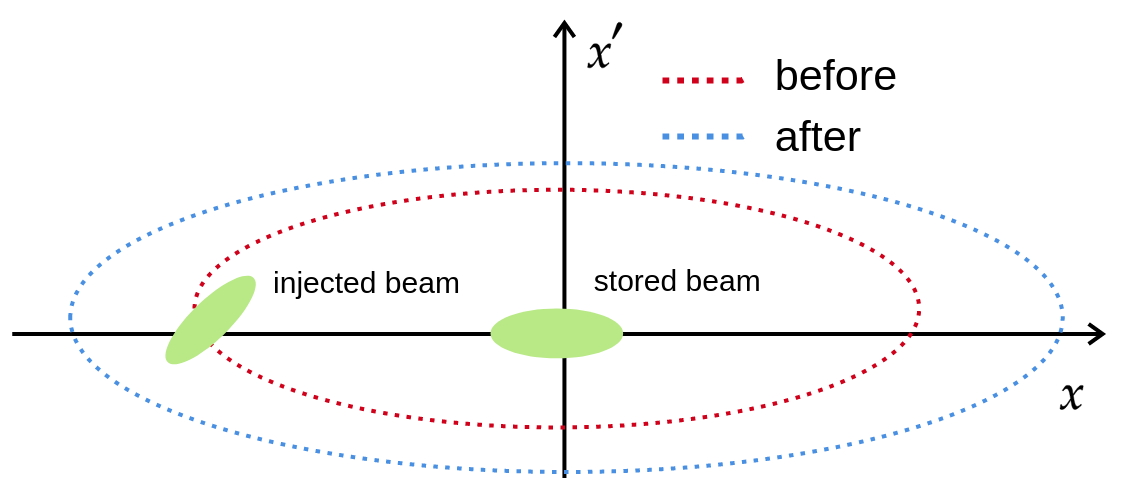
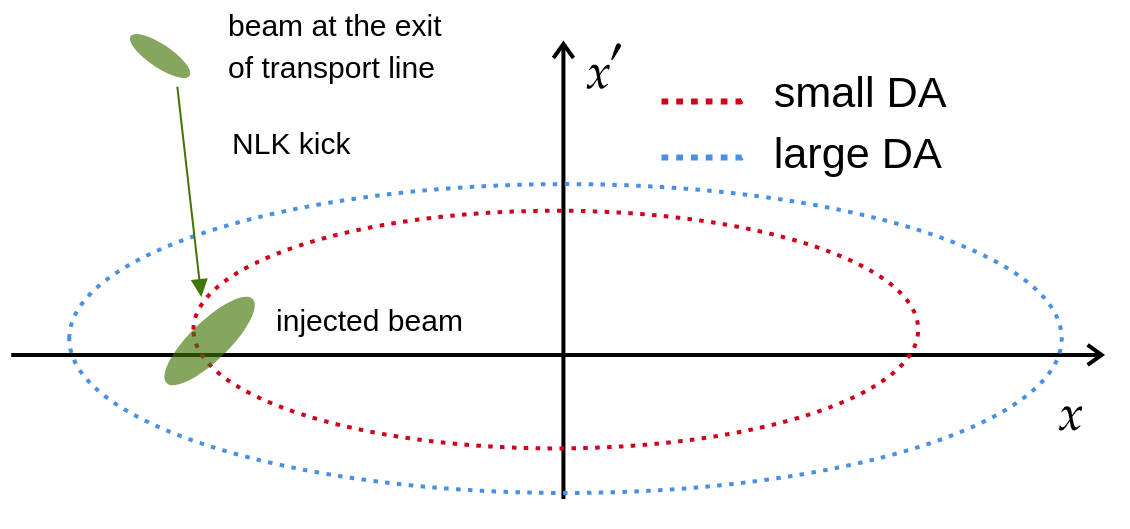
CH04.ENH: rewrite jacobian space, add illustration, change figs

diff --git a/Chapters/ch04.tex b/Chapters/ch04.tex
@@ -11,7 +11,7 @@ The central dipole, the BC, is a permanent superbend magnet with a peak field of
 
 In the high-beta straight sections, the quadrupole doublet (QFA, QDA) is employed for optics matching. B-type sections utilize the (QFB, QDB1, QDB2) quadrupole triplet for matching while the (QFP, QDP1, QDP2) triplet is used in the P-type sections. The arc sections contain the Q1, Q2, Q3, and Q4 quadrupole families, totalling 12 families of quadrupoles and 270 magnets.
 
-The lattice also features 21 families of sextupoles magnets, used for chromaticity correction and nonlinear dynamics optimization. They sum up to 280 magnets. Some sextupoles families are located where the dispersion function vanishes and are called \textit{achromatic}, or harmonic, while other families, located where there is non-zero dispersion, are called \textit{chromatic} families. 
+The lattice also features 21 families of sextupoles magnets, used for chromaticity correction and nonlinear dynamics optimization. They sum up to 280 magnets. Some sextupoles families are located where the dispersion function vanishes and are called \textit{achromatic}, or harmonic, while other families, located where there is non-zero dispersion, are called \textit{chromatic} families.
 
 Table~\ref{tab:sext_fams} lists the sextupoles families and their types in the storage ring. The 21 families are, in principle, the available search space for nonlinear dynamics optimization. The subsection~\ref{subsec:knobs}, on the choice of optimization knobs, at the end of this chapter, shows how the search space can be reduced down to 13 dimensions once the constant chromaticity requirement and/or other additional constraints are imposed.
 
@@ -93,10 +93,10 @@ where $\vb{J}_{\nu}^{+} = (\vb{J}_{\nu}^{\intercal}\vb{J}_{\nu})^{-1}\vb{J}_{\nu
 \subsection{Chromaticity measurements \& control}
 Chromaticity characterizes the energy-dependent tune-shift. To measure it, we need to calculate the numerical derivative
 \begin{equation}
-    \xi_u = \pdv{\nu_u}{\delta}\approx \frac{\Delta \nu_u}{\delta}, \quad u=x, y, 
+    \xi_u = \pdv{\nu_u}{\delta}\approx \frac{\Delta \nu_u}{\delta}, \quad u=x, y,
     \label{eq:chrom_numerical}
 \end{equation}
-that is, measure the tune-shift $\Delta \nu_u$ induced by the energy-shift $\delta$. 
+that is, measure the tune-shift $\Delta \nu_u$ induced by the energy-shift $\delta$.
 
 A direct manner to induce a particular energy-shift is to change the RF cavities frequency. A relation can be established between energy deviations $\delta$ and relative RF frequency changes with the aid of a quantity $\alpha$, known as \textit{momentum compaction factor} \cite{lee_accelerator_2004,sands_physics_1969}:
 \begin{equation}
@@ -144,9 +144,13 @@ There is no analytical formula relating the storage ring linear or nonlinear opt
     \label{fig:injection_efficiency}
 \end{figure}
 
-Therefore, for online optimization, one must choose a practical, relatively fast to measure objective function to act as a probe to the DA: a figure of merit related to the DA to represent it and to be used to evaluate the quality of the changes performed during the online tuning process. In our experiments, we studied using two practical objectives as the probes for DA: the \textbf{injection efficiency} and the \textbf{beam's resilience to dipolar perturbations}. The former is quite self-explanatory: the larger the DA, larger the space for the beam to be captured into the storage ring during the injection pulse, and thus the larger the injection efficiency. Figure~\ref{fig:injection_efficiency}  illustrates how a smller aperture, shown in red, influences the efficiency of injection. The incoming beam enters the storage ring with a hortizontal offset of $x\approx -8~ \unit{mm}$. If the DA is reduced below this value, it can crop part of the injected beam or even the entire beam altogether. The injected beam is lost due to the nonlinear dynamics instabilities in the first turns. If the DA is increased, the larger the beam fraction which is successfully captured and survives in the storage ring in the long term.
+For online optimization one must choose a practical, relatively fast to measure objective function to act as a probe of the DA: a figure of merit related to the DA to represent it and to be used to evaluate the quality of the changes performed during the online tuning process. In our experiments, we studied using two practical objectives as the probes for DA: the \textbf{injection efficiency} and the \textbf{beam's resilience to dipolar perturbations}. The former is quite self-explanatory: the larger the DA, larger the space for the beam to be captured into the storage ring during the injection pulse, and thus the larger the injection efficiency.
 
-As for the beam kick resilience, this figure of merit is related to the DA by the following reasoning: the larger the horizontal dipolar kicks the beam can survive, the larger the orbit distortions towards the positive or negative horizontal direction (depending on the kick direction). So the larger the amplitudes the beam explores as it oscillates. If the beam survives to larger kicks, it means the ring can accommodate larger orbit distortions because of an increased DA. Figure~\ref{fig:action_jump} illustrates the phase space orbits for a beam when it is kicked. In the left sketch, small amplitude TbT motion ellipse is shown. When kikced, the beam gains momentum (angle) and is rigidly translated higher along the $x^{\prime}$ direction. In the linear approximation the beam goes from one ellipse, with action $J$ to another ellipse, with action $\tilde{J}>J$. If the kick is stronger (larger than $500~\unit{\mu rad}$), the action jump takes the beam to a nonlinear regime, as shown in the right sketch, where the beam traces out distorted ellipses. After the kick, the maximum amplitude reached in the negative horizontal direction is increased thus the larger the fraction of the beam that can survive the kick, the larger the DA.
+Figure~\ref{fig:injection_efficiency}  illustrates how a smller aperture, shown in red, influences the efficiency of injection. After leaving the booster accelerator at $3~\unit{GeV}$, the beam is transported into the storage ring injection straight section. It reaches the injection area with phase space coordinates of approximately $(x, x^\prime)\approx(-8~\unit{mm}, 3~\unit{m rad})$. The beam then suffers the deflection of a nonlinear pulsed magnet, the nonlinear kicker (NLK) and is captured into the storage ring with phase space coordinates $(-8~ \unit{mm}, 0)$ \cite{liu_injection_2016}. If the DA border along the negative horizontal direction is reduced below $-8~\unit{mm}$, the dynamics may not accomodate the long term time evolution of the beam fraction exceeding this treshold. This fraction is lost due to the nonlinear dynamics instabilities in the first turns. On the other hand, if the DA is increased, the larger the beam fraction which is successfully captured and survives in the storage ring in the long term.
+
+As for the beam kick resilience, this figure of merit is related to the DA by the following reasoning: the larger the horizontal dipolar kicks the beam can survive, the larger the orbit distortions towards the positive or negative horizontal direction (depending on the kick direction). So the larger the amplitudes the beam explores as it oscillates. If the beam survives to larger kicks, it means the ring can accommodate larger orbit distortions because of an increased DA.
+
+Figure~\ref{fig:action_jump} illustrates the phase space orbits for a beam when it is kicked. In the left sketch, small amplitude TbT motion ellipse is shown. When kikced, the beam gains momentum (angle) and is rigidly translated higher along the $x^{\prime}$ direction. In the linear approximation the beam goes from one ellipse, with action $J$ to another ellipse, with action $\tilde{J}>J$. If the kick is stronger (larger than $500~\unit{\mu rad}$), the action jump takes the beam to a nonlinear regime, as shown in the right sketch, where the beam traces out distorted ellipses. After the kick, the maximum amplitude reached in the negative horizontal direction is increased thus the larger the fraction of the beam that can survive the kick, the larger the DA.
 
 \begin{figure}
     \centering
@@ -177,7 +181,11 @@ As highlighted previously, SIRIUS has 21 sextupole families, magnets powered by 
 \label{subsubsec:compensation}
 The idea is the following: out of the 15 chromatic sextupole families, at least two of them are labeled "correction" or "compensation" families and are not freely varied by the optimization routine during the experiment. The other 13 chromatic families can be varied arbitrarily, respecting their linear magnetic (non-saturated) regime. Alongside these 13 chromatic families, the strength of the 6 achromatic sextupole families are also free knobs.  Whenever the routine proposes changes in the free knobs, the chromaticity changes caused by this action are anticipated as follows: the reduced Jacobian, $\tilde{\vb{J}}_\xi$, whose columns contain only those corresponding to the free knobs, is used to calculate the chromaticity change $\Delta \boldsymbol{\xi}=\tilde{\vb{J}}_\xi\Delta\vb{S}_{\text{free}}$ upon the change $\Delta\vb{S}_{\text{free}}$ in the free knobs. Another reduced Jacobian, $\vb{J}_{\xi}^{\prime}$ containig only the columns corresponding to the "correction" or "compensation" families is used to counteract the predicted chromaticity build-up, i.e., to produce sextupole changes $\Delta\vb{S}_{\text{corr.}}$ leading to exactly the oposite chromtaticity change $-\Delta \boldsymbol{\xi}$. The required strength changes in the compensation families is determined by $\Delta \vb{S}_{\text{corr.}} = \vb{J}_{\xi}^{\prime +}(-\Delta \boldsymbol{\xi}$). Applying $\Delta \vb{S} = \Delta \vb{S}_{\text{free.}} + \Delta \vb{S}_{\text{corr.}}$ to the machine leads to sextupole families strength changes keeping the chromaticity unchanged. The scheme is illustrated in Fig.~\ref{fig:compensation}.
 
-The compensation scheme was used as follows. The 6 achromatic families plus the SDA1, SFA1, SDB1, SDP1, SDA3, SDB3 and SDP3 families could be freely varied. Their strengths were the optimization knobs. The SDA2, SDB2, SDP2, SFA2, SFB2 and SFP2 were used as the compensation or correction families. They would only be varied to cancel the chromaticity build-up caused by changing the free knobs. The compensation families were chosen on the basis of having range to act on the chromaticity, that is, they were the families with initial strengths far from saturation, with a lot of room to compensate the knobs effects on chromaticity.
+In practice, during the experiments, the compensation scheme was used as follows. The 6 achromatic families plus the SDA1, SFA1, SDB1, SDP1, SDA3, SDB3 and SDP3 families could be freely varied. Their strengths were the optimization knobs. The SDA2, SDB2, SDP2, SFA2, SFB2 and SFP2 were used as the compensation or correction families. They would only be varied to cancel the chromaticity build-up caused by changing the free knobs. The resulting search space was 13-dimensional.
+
+ Note that families SFP1 and SFB1 were not used as knobs. They were kept constant. They were actually used in the first experiments attempts, as discussed in section~\ref{sec:kick_res_opt} of the next chapter, but were later removed upon the realization that they already operate close to saturarion, where the fields may not be repeatable due to hysteresis effect. When these are included, the search space is 15-dimensional.
+
+ The compensation families were chosen on basis of having range to act on the chromaticity, that is, they were the families with initial strengths far from saturation, with a lot of room to compensate the knobs effects on chromaticity.
 \begin{figure}
     \centering
     \includegraphics[width=\textwidth]{Images/compensation_scheme.pdf}
@@ -186,7 +194,9 @@ The compensation scheme was used as follows. The 6 achromatic families plus the 
 \end{figure}
 \subsubsection{Jacobian null space knobs scheme}
 \label{subsubsec:nullspace}
-Here the idea is to identify the combination of sextupole families living in the null space, or kernel, of the chromaticity Jacobian matrix. That is, we are interested in the set of vectors $\text{ker}(\vb{J}_\xi)=\text{span}\{\vb{s}_i\in\mathbb{R}^{21}| \vb{J}_{\xi} \vb{s}_i = \vb{0}, i=1,\dots,19 \}$. If we perform changes along such subspace $\Delta \vb{S}\in\text{ker}(\vb{J}_\xi)$ then the resulting changes in chromaticity are null. The reason why we can anticipate the dimension of the null space is 19 is because it contains the 6 achromatic sextupole families plus 13 degrees of freedom out of the 15 achromatic families, since at least 2 degrees of freedom are needed to act over chromaticity.
+Here the idea is to identify the combination of sextupole families living in the null space, or kernel, of the chromaticity Jacobian matrix. That is, we are interested in the set of vectors $\text{ker}(\vb{J}_\xi)=\text{span}\{\vb{s}_i\in\mathbb{R}^{21}| \vb{J}_{\xi} \vb{s}_i = \vb{0}\}_{i=1,\dots,19}$. If we perform changes along such subspace $\Delta \vb{S}\in\text{ker}(\vb{J}_\xi)$ then the resulting changes in chromaticity are null.
+
+The reason why we can anticipate the dimension of the null space is 19 is because it contains the 6 achromatic sextupole families plus 13 degrees of freedom out of the 15 achromatic families, since at least 2 degrees of freedom are needed to act over chromaticity.
 
 A straightforward way to identify the null space of the Jacobian is to calculate its full singular value decomposition (SVD), which expresses the Jacobian as the product
 \begin{equation}
@@ -207,25 +217,44 @@ A straightforward way to identify the null space of the Jacobian is to calculate
 \end{equation}
 Note that the singular-values matrix has only two non-vanishing singular values $\sigma_1$ and $\sigma_2$. In the sum-over-modes form of SVD, we have
 \begin{equation}
-    \vb{J}_\xi = \sum_{i=0}^{21}\sigma_i\vb{u}_i\vb{v}_{i}^{\intercal} = \sigma_1 \vb{u}_1\vb{v}_{1}^\intercal + \sigma_2 \vb{u}_2\vb{v}_{2}^\intercal
+    \vb{J}_\xi = \sum_{i=0}^{21}\sigma_i\vb{u}_i\vb{v}_{i}^{\intercal} = \sigma_1 \vb{u}_1\vb{v}_{1}^\intercal + \sigma_2 \vb{u}_2\vb{v}_{2}^\intercal,
 \end{equation}
 in which it becomes clear that we have only two independent modes or degrees of freedom for changing chromaticity, corresponding to the horizontal and vertical degrees of freedom.
 
-Given the interpretation that the column vectors of the $\vb{U}$ matrix, the so-called right-singular vectors, span the Jacobian row-space, the chromaticity space, and that the row vectors of the $\vb{V}^\intercal$ matrix, the left-singular vectors, span the Jacobian column-space, the sextupole families space, then we can esily identify the vectors living in the null space of the Jacobian. They must be the ones associated with the vanishing singular values: $\text{ker}(\vb{J}_\xi) = \text{span}\{\vb{v}_i|i=3,\dots,21\}$, since changes performed along these directions result in no contribution to the chromaticity.
+Multiplication of the SVD-decomposed $\vb{J}_{\xi}$ by $\vb{V}$ gives $\vb{J}_{\xi}\vb{V} = \vb{U}\boldsymbol{\Sigma}$, which explicitly reads
+\begin{equation}
+    \begin{aligned}
+        \vb{J}_{\xi}\vb{v}_i & = \sigma_i \vb{u}_i, \quad i=1,2,\\
+        \vb{J}_{\xi}\vb{v}_i & = \vb{0}, \quad i=3,\dots,21.\\
+    \end{aligned}
+\end{equation}
+Revealing the sextupole strength vectors living in the null space of the Jacobian. They must be the ones associated with the vanishing singular values: $\text{ker}(\vb{J}_\xi) = \text{span}\{\vb{v}_i\}_{i=3,\dots,21}$.
+%  Referring to our previous notation, we can say $\text{ker}(\vb{J}_\xi) = \text{span}\{\vb{s}_i = \vb{v}_{i+2}\}_{i=1,\dots,19}$.
+Figure~\ref{fig:chrom_jac_subspaces} illustrates the fundamental subspaces associated with the chromaticity jacobian. The range of the matrix, or column space, is the chromaticity changes space. Vectors living in the null space are the sextupole strengths combinations mapped to the chromaticity space origin.
 
-As mentioned previously, in practice, additional constraints on the families strengths variations  have been imposed to further reduce the dimensionality of the search space. For instance, in one of the experiments the following constraints were imposed:
+\begin{figure}
+    \centering
+    \includegraphics[width=0.8\textwidth]{Images/chrom_jacobian_subspaces.pdf}
+    \caption[Illustration of chromaticity jacobian $\vb{J}_{\xi}$ fundamental subspaces]{Illustration of chromaticity jacobian $\vb{J}_{\xi}$ fundamental subspaces. The idea is to use sextupole combinations living in the null space, since these are mapped to the zero vector on the chromaticity space.}
+    \label{fig:chrom_jac_subspaces}
+\end{figure}
+
+As mentioned previously, additional constraints on the families strengths variations  have been imposed to further reduce the dimensionality of the search space. In such cases, the jacobian is recalculated considering the imposed constraints. For instance, in one of the experiments the following constraints were imposed:
 \begin{itemize}
-    \item Families SFP1 and SFB1 were kept constant, i.e., were not allowed to change. They operate close to their saturation, nonlinear regime, and one cannot trust they would be able to provide reproducible magnetic field changes. Deciding not using them already reduces from 21 possible families to 19.
+    \item Families SFP1 and SFB1 were kept constant, i.e., were not allowed to change. As mentioned, they operate close to their saturation, nonlinear regime, and one cannot trust they would be able to provide reproducible magnetic field changes. Deciding not using them already reduces from 21 to 19 degrees of freedom.
     \item The pair of families SDB1 \& SDP1, SDB2 \& SDP2, SFB2 \& SFP2, SDB3 \& SDP3 were constrained to change by the same amount, starting from their respective initial strengths. This reduces the available options from 19 to 15 families.
 \end{itemize}
-These 15 families consist on the 6 achromatic families, the 4 pairs of constrained families and 5 other non-constrained families SDA1, SFA1, SDA2 , SFA2, and SDA3. The 9-dimensional chromatic parameters Jacobian is recalculated and its null space basis reveals the 7-dimensional space spanned by the linear combination of sextupole strengths that will not change chromaticity when varied. We shall refer to such constraint configuration as Constraints Scheme I, to distinguish it from Constraints Scheme II, which consists on
+These 15 families consist on the combination of the 6 achromatic families, the 4 pairs of constrained families and 5 other non-constrained families SDA1, SFA1, SDA2 , SFA2, and SDA3.
+% The 9-dimensional chromatic space Jacobian is calculated and its null space basis reveals the 7-dimensional space spanned by the linear combination of sextupole strengths that will not change chromaticity when varied. Combining the 7-dimensional null space with achromatic families results in a 13-dimensional search space. We shall refer to such constraint configuration as \textbf{Constraint Scheme I}, to distinguish it from \textbf{Constraints Scheme II}, which consists on
+Calculating the null space of the Jacobian results in a 13-dimensional search space. We shall refer to such constraint configuration as \textbf{Constraint Scheme I}, to distinguish it from \textbf{Constraint Scheme II}, which consists on
+
 \begin{itemize}
     \item Families SFP1 and SFB1 were kept constant, by the same reason as in the previous scheme.
     \item No pair-wise constraints were imposed to the sextupole families. So, in principle, there were 19 possible families: 21 minus the two families not used.
 \end{itemize}
 Calculating the Jacobian null space revealed the 17 chromaticity-preserving free knobs.
 
-With the presentation of experimental procedures, setup and the available diagnostics, we can move on to reporting the experiments and their results. This is the focus of the next chapter.
+% With the presentation of experimental procedures, setup and the available diagnostics, we can move on to reporting the experiments and their results. This is the focus of the next chapter.
 % \subsection{Characterization of Sextupole Magnets Configurations}
 % Once a configuration of sextupoles (position in parameter space) is found, the nonlinear optics it provides the machine needs to be characterized. The characterizations consisted on evaluatig/measuring the followint figures of merit and desired features
 % \begin{itemize}
